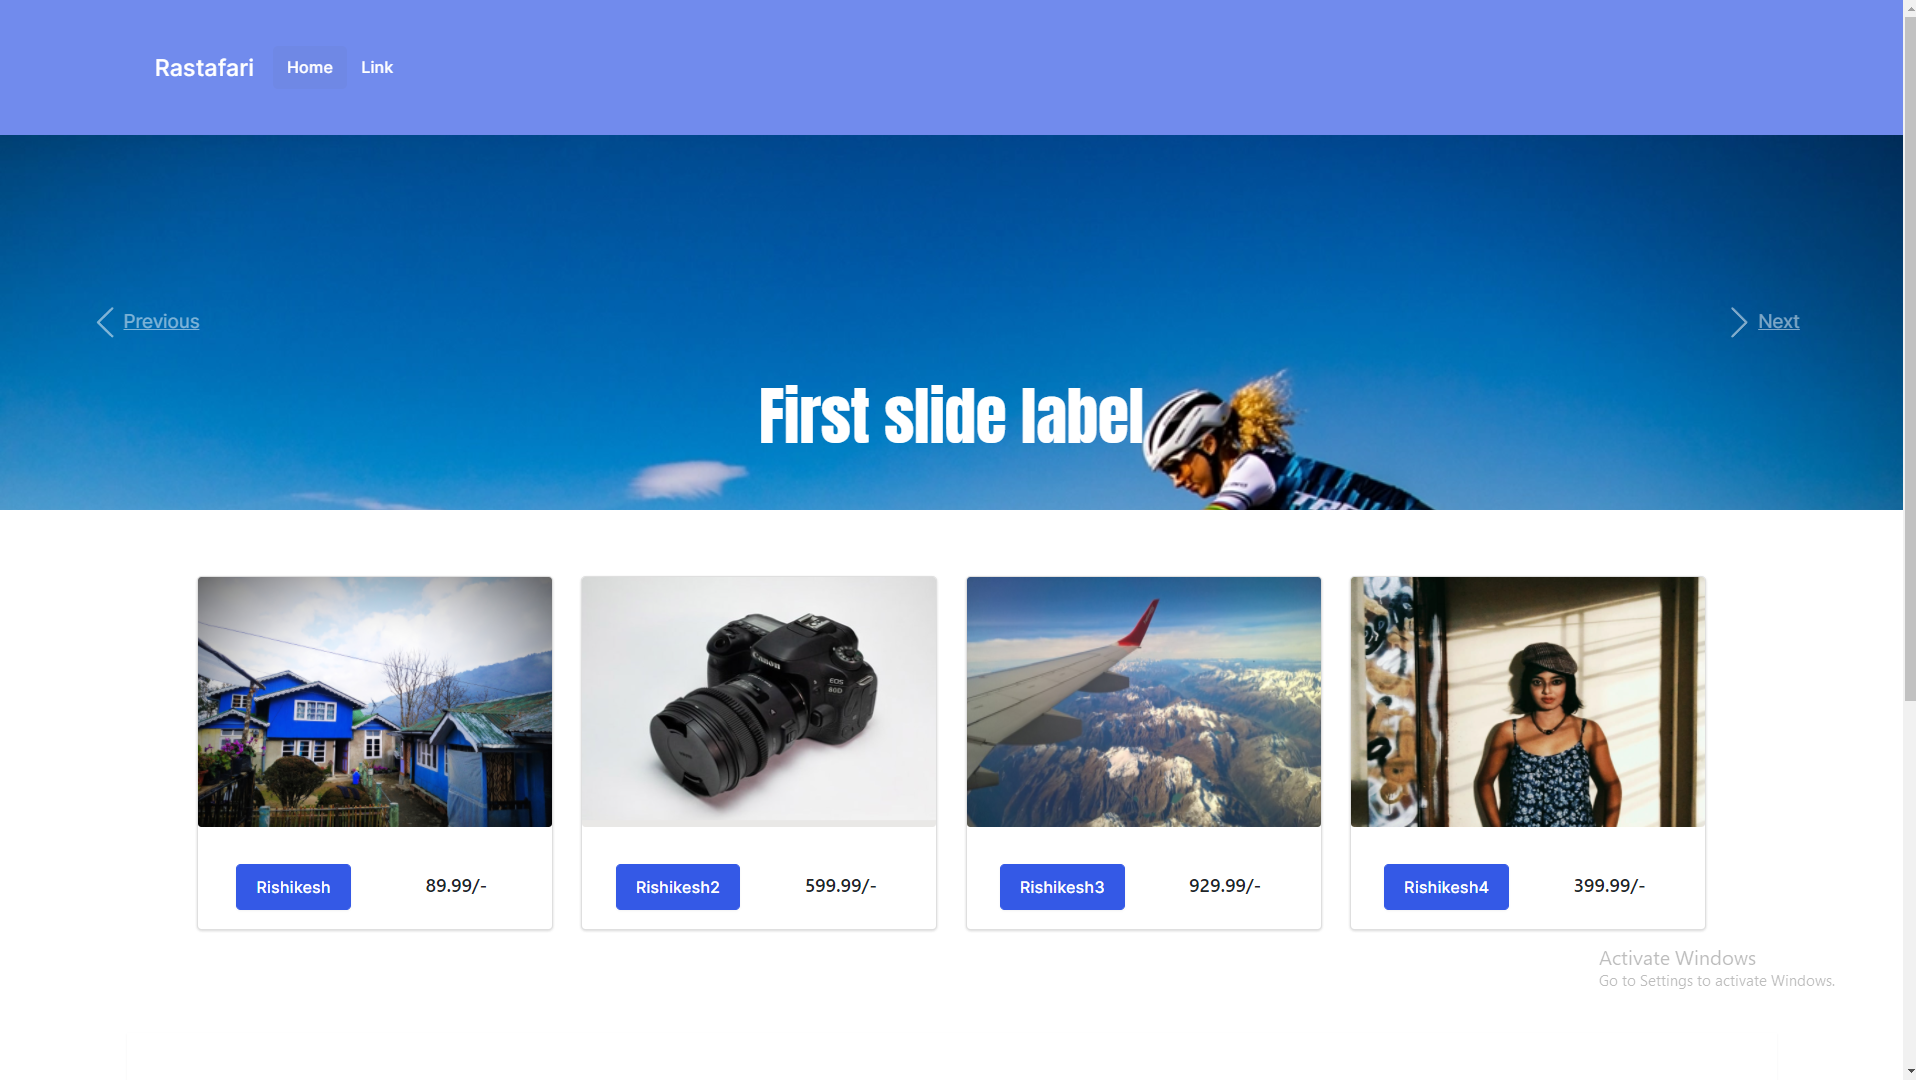
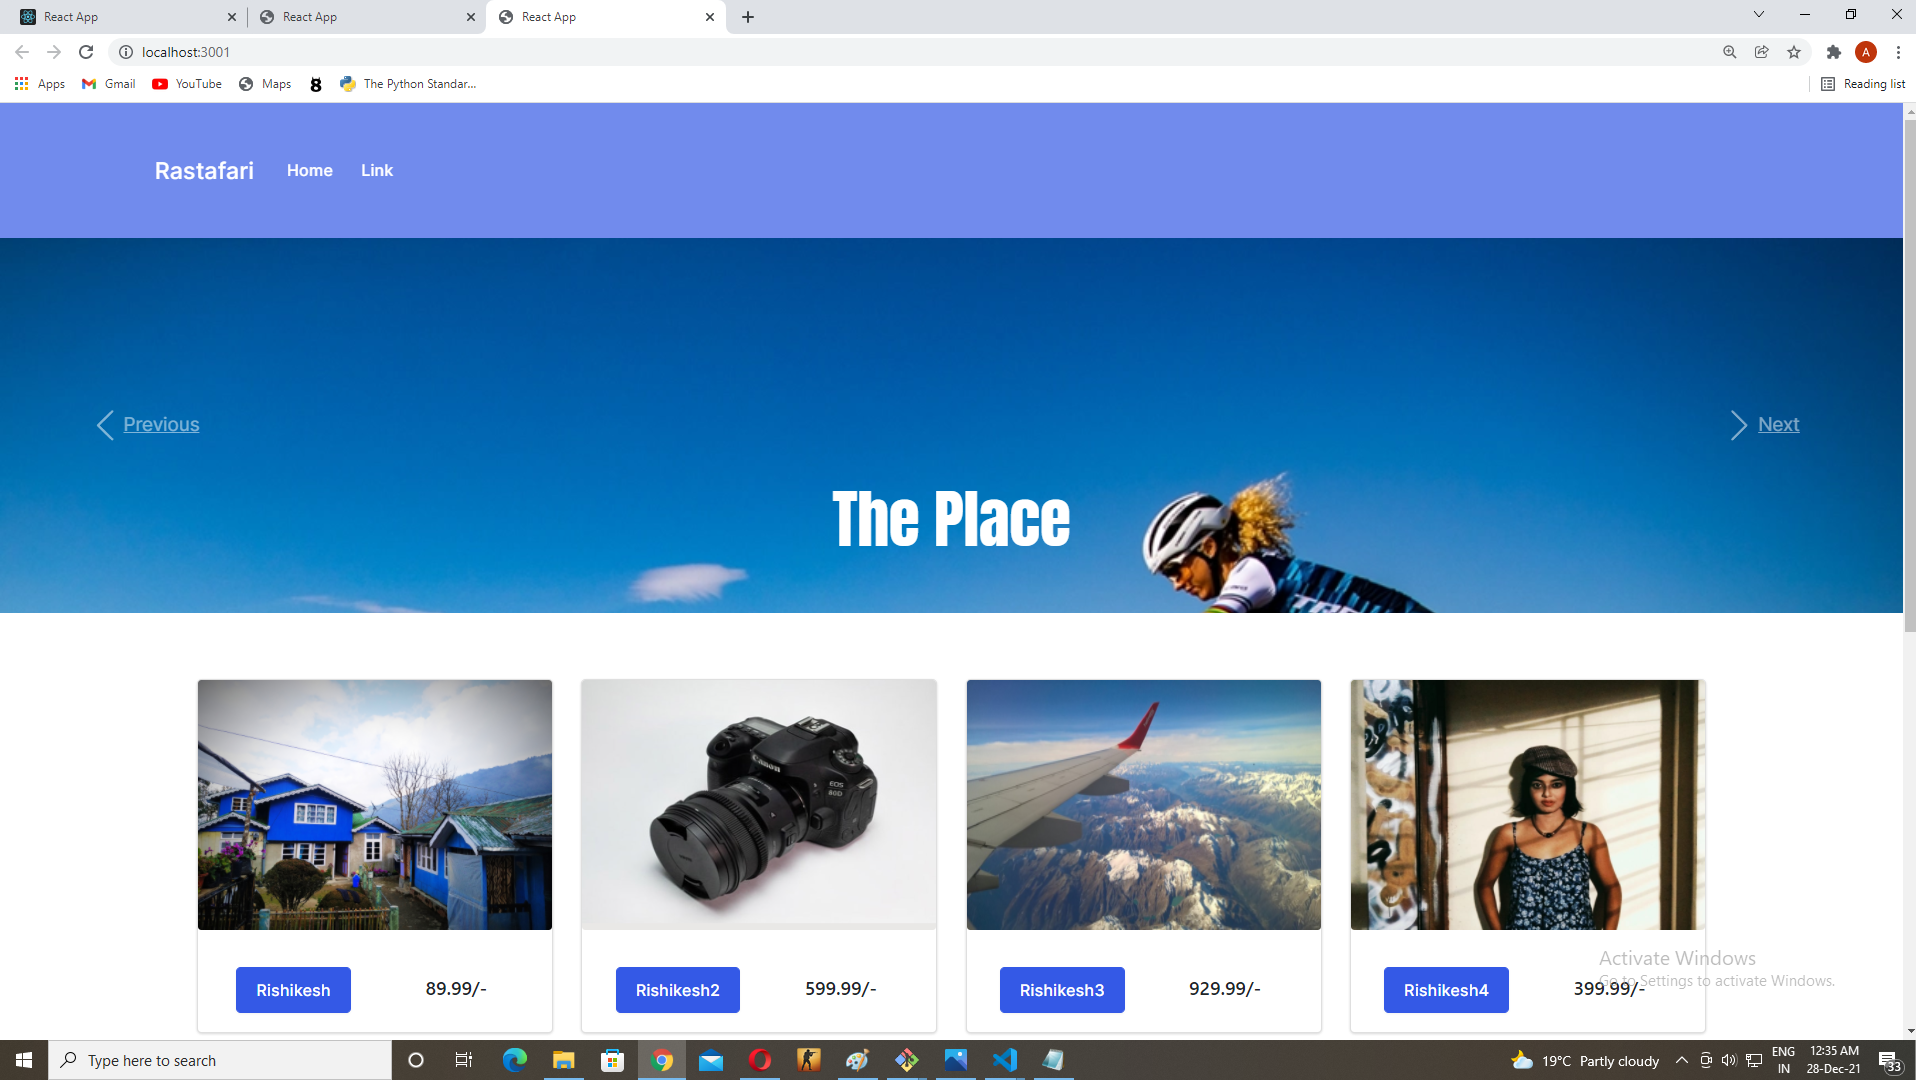
the commit

diff --git a/src/components/Header.js b/src/components/Header.js
@@ -26,7 +26,7 @@ const Header = () => {
                                     alt="First slide" fluid
                                     />
                                     <Carousel.Caption>
-                                    <h3 className = "mytext" style ={{fontSize:"50px", color:'white'}}>First slide label</h3>
+                                    <h3 className = "mytext" style ={{fontSize:"50px", color:'white'}}> The Place</h3>
                                     
                                     </Carousel.Caption>
                                 </Carousel.Item>
